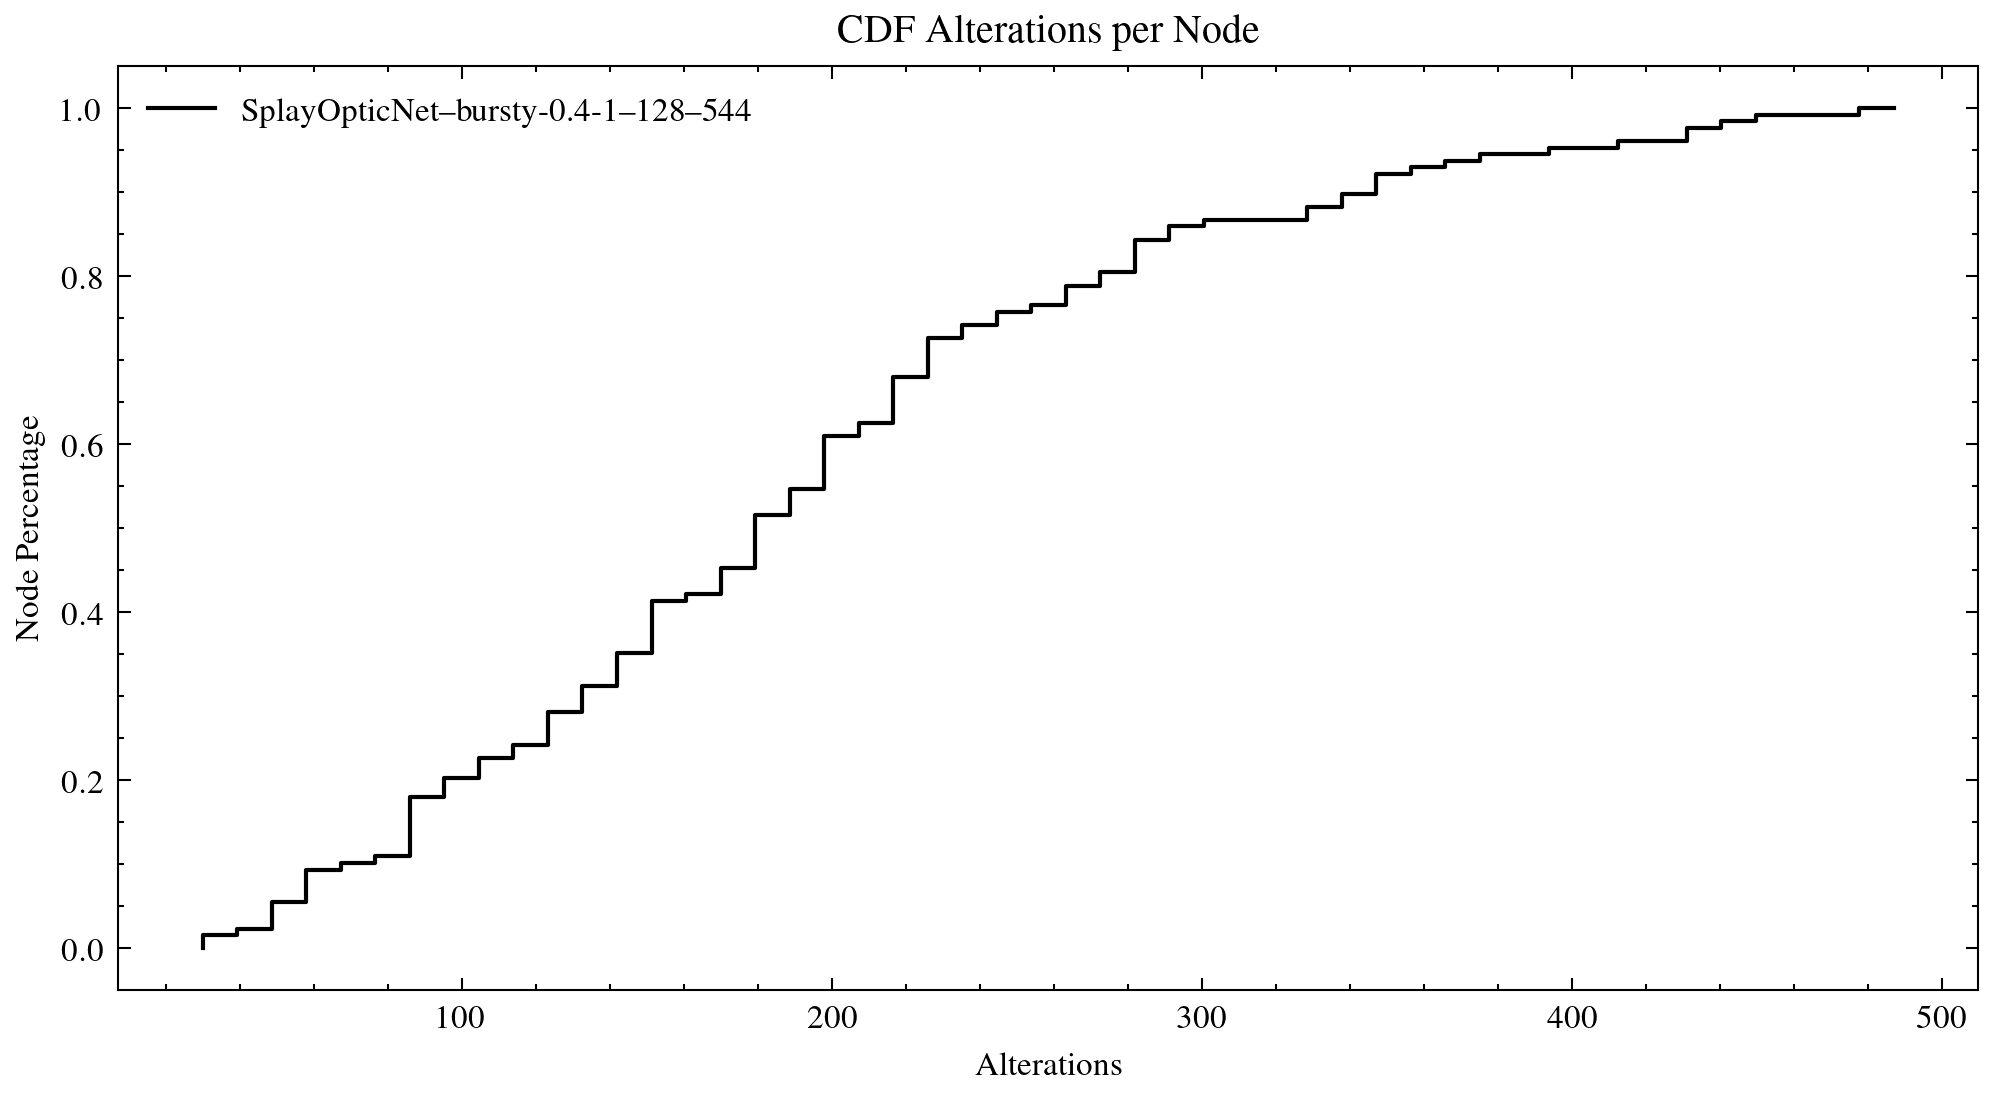
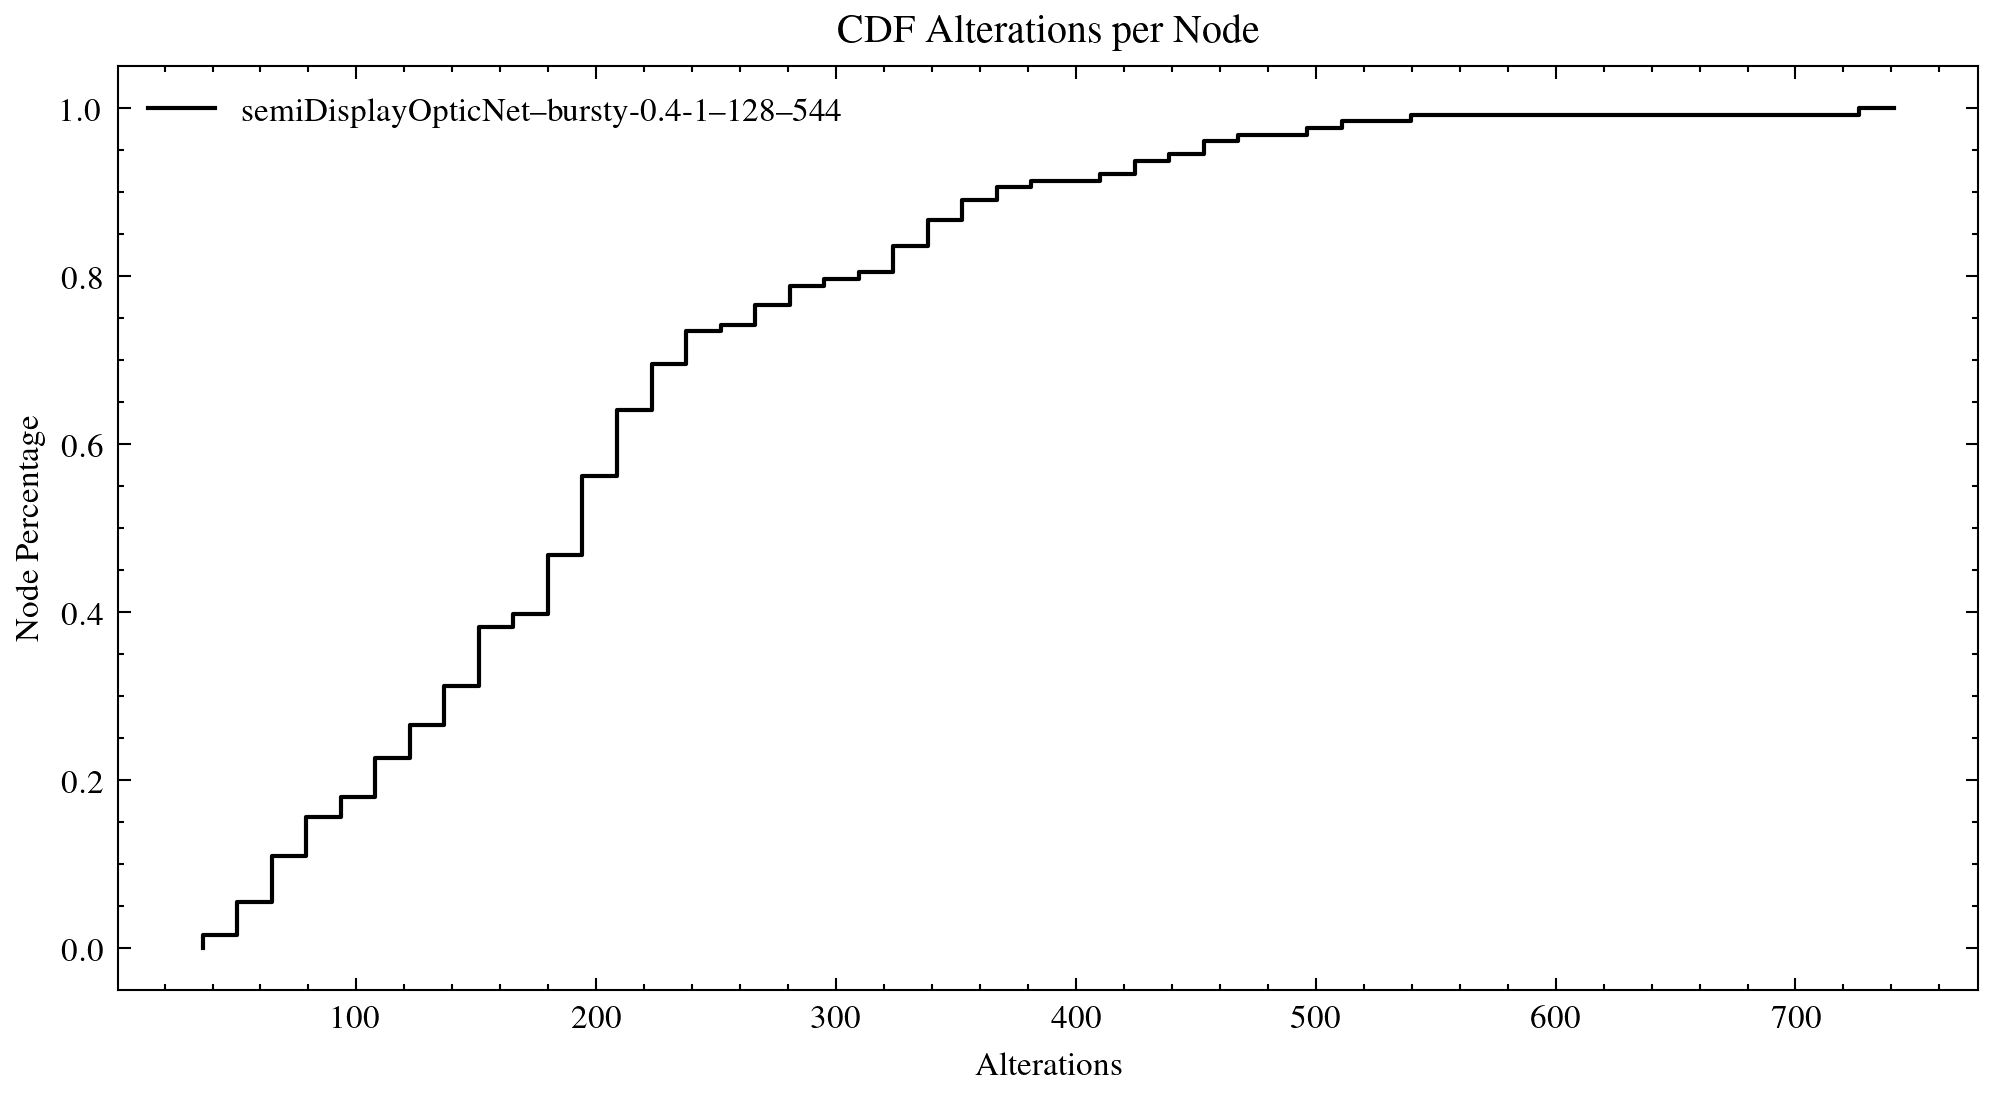
corrected heuristicController to work in nonSequential pt2

diff --git a/src/projects/bstOpticalNet/nodes/nodeImplementations/HeuristicController.java b/src/projects/bstOpticalNet/nodes/nodeImplementations/HeuristicController.java
@@ -261,7 +261,7 @@ public abstract class HeuristicController extends LoggerLayer {
         boolean leftZig = (x == y.getLeftChild());
         InfraNode b = (leftZig) ? x.getRightChild() : x.getLeftChild();
 
-        if (this.areAvailableNodes(x, y, b)) {
+        if (this.areAvailableNodes(w, x, y, b)) {
             this.zigAlterations(w, y, x, b);
 
             return true;
@@ -743,20 +743,20 @@ public abstract class HeuristicController extends LoggerLayer {
     protected boolean areAvailableNodes (InfraNode... nodes) {
         for (InfraNode infNode: nodes) {
             if (infNode.getId() != -1 && this.usedNodes.get(infNode.getId())) {
-                System.out.println("used "+infNode.getNetId());
+                //System.out.println("used "+infNode.getNetId());
             	return false;
 
             }
         }
-        System.out.print("available ");
+        //System.out.print("available ");
         for (InfraNode infNode: nodes) {
             if (infNode.getId() != -1) {
-            	System.out.print(infNode.getNetId()+" ");
+            	//System.out.print(infNode.getNetId()+" ");
                 this.usedNodes.set(infNode.getId(), true);
 
             }
         }
-        System.out.println();
+        //System.out.println();
 
         return true;
     }
@@ -1441,13 +1441,13 @@ public abstract class HeuristicController extends LoggerLayer {
     	this.lockRoutingNodes();
 
         while (!this.nodesWithMsg.isEmpty()) {
-            HasMessage hasmsg = this.nodesWithMsg.poll();
+        	HasMessage hasmsg = this.nodesWithMsg.poll();
             int nodeId = hasmsg.getCurrId();
 
             InfraNode node = this.getInfraNode(nodeId);
             InfraNode dstNode = this.getInfraNode(hasmsg.getDst());
 
-          //pega origem e destino da mensagem
+            //pega origem e destino da mensagem
             //ve se tem link heuristico entre os 2
             //e pra isso, procura a chave (node, dstNode) no map heuristic_links
             Object hl_swtOffset = heuristic_links.get(new AbstractMap.SimpleEntry<>(node.getNetId(),dstNode.getNetId()));
@@ -1520,7 +1520,7 @@ public abstract class HeuristicController extends LoggerLayer {
             	}
                 
                 if(swtOffset != -1) {
-                	System.out.println("added heuristis link allowRoutingHeuristicLink "+node.getNetId()+" "+dstNode.getNetId());
+                	System.out.println("added heuristic link "+node.getNetId()+" "+dstNode.getNetId());
                 	//se as duas estiverem desocupadas, adicione o link heuristico no primeiro switch e na primeira aresta ((a,b),(b,a)) disponivel 
                 	//adiciona aresta no map de arestas heuristicas (map(pair(int1,int2),int swtOffset) ex: add((0,3),0), add((3,0),1)
                 	heuristic_links.put(new AbstractMap.SimpleEntry<>(node.getNetId(),dstNode.getNetId()),swtOffset);
@@ -1530,8 +1530,8 @@ public abstract class HeuristicController extends LoggerLayer {
                 	this.logIncrementActivePorts(swt.getIndex());                	
                 	this.logHeuristicLinks(1);
                 	this.logIncrementAlterations(swt.getIndex(), node);
-                	this.allowRoutingHeuristicLink(node, dstNode, clusters.get(clsId).get(swtOffset), 1);
-                	
+                	this.areAvailableNodes(node,dstNode);
+                	//this.allowRoutingHeuristicLink(node, dstNode, clusters.get(clsId).get(swtOffset), 1);                	
                 } else {
                 	System.out.println("rotation");
                 	this.logHeuristicLinksRefused(1);

diff --git a/src/projects/semiDisplayOpticNet/nodes/nodeImplementations/SemiDisplayNetController.java b/src/projects/semiDisplayOpticNet/nodes/nodeImplementations/SemiDisplayNetController.java
@@ -285,19 +285,19 @@ public class SemiDisplayNetController extends HeuristicController {
             	}
                 
                 if(swtOffset != -1) {
-                	if(areAvailableNodes(node,dstNode)) {
-	                	System.out.println("added heuristis link allowRoutingHeuristicLink "+node.getNetId()+" "+dstNode.getNetId());
-	                	//se as duas estiverem desocupadas, adicione o link heuristico no primeiro switch e na primeira aresta ((a,b),(b,a)) disponivel 
-	                	//adiciona aresta no map de arestas heuristicas (map(pair(int1,int2),int swtOffset) ex: add((0,3),0), add((3,0),1)
-	                	heuristic_links.put(new AbstractMap.SimpleEntry<>(node.getNetId(),dstNode.getNetId()),swtOffset);
-	                	
-	                	NetworkSwitch swt = clusters.get(clsId).get(swtOffset);
-	                	swt.addLink(node.getNetId(),dstNode.getNetId());
-	                	this.logIncrementActivePorts(swt.getIndex());                	
-	                	this.logHeuristicLinks(1);
-	                	this.logIncrementAlterations(swt.getIndex(), node);
-	                	this.allowRoutingHeuristicLink(node, dstNode, clusters.get(clsId).get(swtOffset), 1);
-                	}
+                	System.out.println("added heuristic link "+node.getNetId()+" "+dstNode.getNetId());
+                	//se as duas estiverem desocupadas, adicione o link heuristico no primeiro switch e na primeira aresta ((a,b),(b,a)) disponivel 
+                	//adiciona aresta no map de arestas heuristicas (map(pair(int1,int2),int swtOffset) ex: add((0,3),0), add((3,0),1)
+                	heuristic_links.put(new AbstractMap.SimpleEntry<>(node.getNetId(),dstNode.getNetId()),swtOffset);
+                	
+                	NetworkSwitch swt = clusters.get(clsId).get(swtOffset);
+                	swt.addLink(node.getNetId(),dstNode.getNetId());
+                	this.logIncrementActivePorts(swt.getIndex());                	
+                	this.logHeuristicLinks(1);
+                	this.logIncrementAlterations(swt.getIndex(), node);
+                	this.areAvailableNodes(node,dstNode);
+                	//this.allowRoutingHeuristicLink(node, dstNode, swt, 1);
+                	
                 } else {
                 	System.out.println("rotation");
                 	this.logHeuristicLinksRefused(1);

diff --git a/scripts_win/bursty.py b/scripts_win/bursty.py
@@ -118,8 +118,8 @@ for project in projects:
                                     f"isSequential={sequentiality} AutoStart=true > {sim_stream}"
                                 )
 
-                            print(cmd)
-                            commands.append(cmd)
+                                #print(cmd)
+                                commands.append(cmd)
 
     num_commands = len(commands)
 

diff --git a/scripts/bursty.py b/scripts/bursty.py
@@ -118,8 +118,8 @@ for project in projects:
                                     f"isSequential={sequentiality} AutoStart=true > {sim_stream}"
                                 )
 
-                            print(cmd)
-                            commands.append(cmd)
+                                print(cmd)
+                                commands.append(cmd)
 
     num_commands = len(commands)
 

diff --git a/plotter/plot_script.py b/plotter/plot_script.py
@@ -30,11 +30,7 @@ datasets = [ "bursty-0.4-1" ]
 num_nodes = [ 128 ]
 mus = [ 4 ]
 
-# parameters of simulation
-num_nodes = [ 367 ]
-datasets = [ "facebookDS" ]
-switch_sizes = [ 16, 734 ]
-num_simulations = 1
+
 
 
 if not os.path.exists(f"output/{sys.argv[1]}"):
